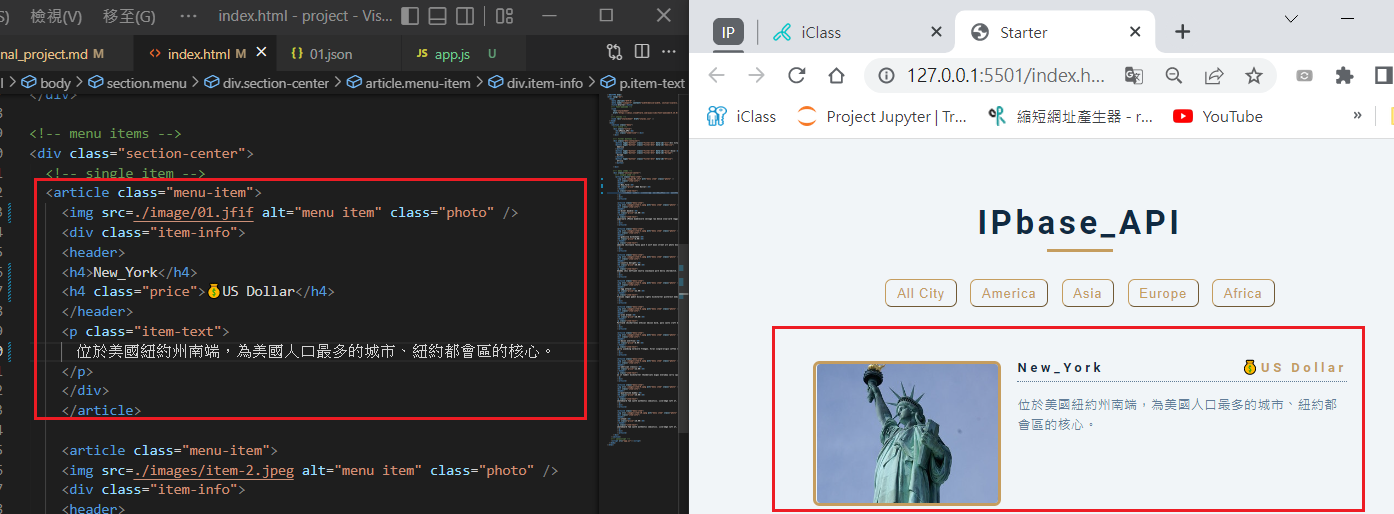
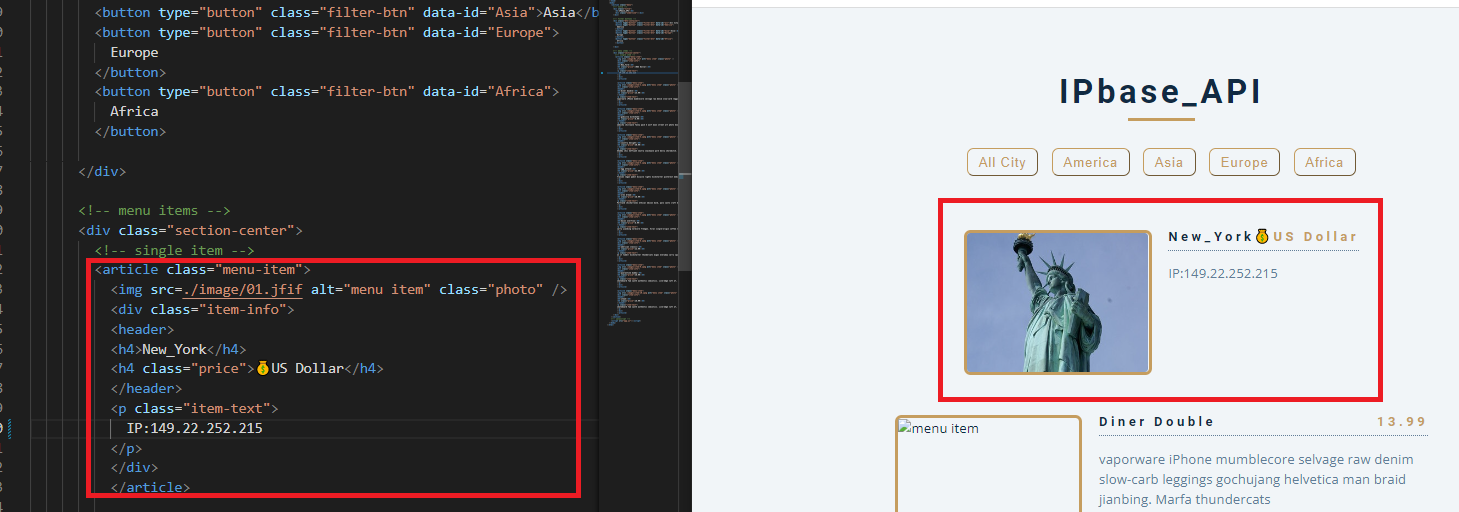
final_project s2-4

diff --git a/project/app.js b/project/app.js
@@ -1,0 +1,210 @@
+  const city=[
+    {
+      "data": {
+          
+          "timezone": {
+              "id": "America\/New_York",
+              "current_time": "2022-06-18T02:26:05-04:00",
+              "code": "EDT",
+              "is_daylight_saving": true,
+              "gmt_offset": -14400
+          },
+          "img": "../image/01.jfif",
+          "ip": "149.22.252.215",
+          "type": "v4",
+          "connection": {
+              "asn": 201838,
+              "organization": "Community Fibre Limited",
+              "isp": "Cogent Communications"
+          },
+          "location": {
+              "geonames_id": 5125771,
+              "latitude": 40.7589111328125,
+              "longitude": -73.97901916503906,
+              "zip": "10020",
+              "continent": {
+                  "code": "NA",
+                  "name": "North America",
+                  "name_translated": "North America"
+              },
+              "country": {
+                  "alpha2": "US",
+                  "alpha3": "USA",
+                  "calling_codes": [
+                      "+1"
+                  ],
+                  "currencies": [
+                      {
+                          "symbol": "$",
+                          "name": "US Dollar",
+                          "symbol_native": "$",
+                          "decimal_digits": 2,
+                          "rounding": 0,
+                          "code": "USD",
+                          "name_plural": "US dollars"
+                      }
+                  ],
+                  "emoji": "🇺🇸",
+                  "ioc": "USA",
+                  "languages": [
+                      {
+                          "name": "English",
+                          "name_native": "English"
+                      }
+                  ],
+                  "name": "United States",
+                  "name_translated": "United States",
+                  "timezones": [
+                      "America\/New_York",
+                      "America\/Detroit",
+                      "America\/Kentucky\/Louisville",
+                      "America\/Kentucky\/Monticello",
+                      "America\/Indiana\/Indianapolis",
+                      "America\/Indiana\/Vincennes",
+                      "America\/Indiana\/Winamac",
+                      "America\/Indiana\/Marengo",
+                      "America\/Indiana\/Petersburg",
+                      "America\/Indiana\/Vevay",
+                      "America\/Chicago",
+                      "America\/Indiana\/Tell_City",
+                      "America\/Indiana\/Knox",
+                      "America\/Menominee",
+                      "America\/North_Dakota\/Center",
+                      "America\/North_Dakota\/New_Salem",
+                      "America\/North_Dakota\/Beulah",
+                      "America\/Denver",
+                      "America\/Boise",
+                      "America\/Phoenix",
+                      "America\/Los_Angeles",
+                      "America\/Anchorage",
+                      "America\/Juneau",
+                      "America\/Sitka",
+                      "America\/Metlakatla",
+                      "America\/Yakutat",
+                      "America\/Nome",
+                      "America\/Adak",
+                      "Pacific\/Honolulu"
+                  ],
+                  "is_in_european_union": false
+              },
+              "city": {
+                  "name": "Manhattan",
+                  "name_translated": "Manhattan"
+              },
+              "region": {
+                  "fips": "",
+                  "alpha2": "",
+                  "name": "New York",
+                  "name_translated": "New York"
+              }
+          }
+      }
+  },
+  {
+    "data": {
+        "timezone": {
+            "id": "Asia\/Shanghai",
+            "current_time": "2022-06-18T14:48:04+08:00",
+            "code": "CST",
+            "is_daylight_saving": false,
+            "gmt_offset": 28800
+        },
+        "ip": "115.45.29.150",
+        "type": "v4",
+        "connection": {
+            "asn": 17962,
+            "organization": "ShenZhen Topway Video Communication Co. Ltd",
+            "isp": "Shenzhen Topway Video Communication Co. Ltd"
+        },
+        "location": {
+            "geonames_id": 1795565,
+            "latitude": 22.547500610351562,
+            "longitude": 114.10166931152344,
+            "zip": "518000",
+            "continent": {
+                "code": "AS",
+                "name": "Asia",
+                "name_translated": "Asia"
+            },
+            "country": {
+                "alpha2": "CN",
+                "alpha3": "CHN",
+                "calling_codes": [
+                    "+86"
+                ],
+                "currencies": [
+                    {
+                        "symbol": "CN¥",
+                        "name": "Chinese Yuan",
+                        "symbol_native": "CN¥",
+                        "decimal_digits": 2,
+                        "rounding": 0,
+                        "code": "CNY",
+                        "name_plural": "Chinese yuan"
+                    }
+                ],
+                "emoji": "🇨🇳",
+                "ioc": "CHN",
+                "languages": [
+                    {
+                        "name": "Chinese",
+                        "name_native": "中文 (Zhōngwén)"
+                    }
+                ],
+                "name": "China",
+                "name_translated": "China",
+                "timezones": [
+                    "Asia\/Shanghai",
+                    "Asia\/Urumqi"
+                ],
+                "is_in_european_union": false
+            },
+            "city": {
+                "name": "Shenzhen",
+                "name_translated": "Shenzhen"
+            },
+            "region": {
+                "fips": "CH-30",
+                "alpha2": "CN-GD",
+                "name": "Guangdong",
+                "name_translated": "Guangdong"
+            }
+        }
+    }
+}
+  ]  
+  
+  const sectionCenter = document.querySelector('.section-center');
+
+  window.addEventListener("DOMContentLoaded", () => {
+    displayCity(city);
+    
+  });
+  
+  const displayCity = (citys) => {
+    let displayCT = citys.map((item) => {
+  
+      return `
+      <article class="menu-item">
+      <img src=${item.data.img} alt="menu item" class="photo"/>
+      <div class="item-info">
+        <header>
+          <h4>${item.data.location.region.name}</h4>
+          <h4 class="price">💰${item.data.location.country.currencies[0].name}</h4>
+        </header>
+        <p class="item item-text">
+          IP:${item.data.ip}
+        </p>
+      </div>
+    </article>
+      
+      `
+  
+    })
+    displayCT = displayCT.join("");
+  
+    console.log('displayCT', displayCT);
+  
+    sectionCenter.innerHTML = displayCT;
+  }
+  

diff --git a/project/index.html b/project/index.html
@@ -39,7 +39,7 @@
       <!-- menu items -->
       <div class="section-center">
         <!-- single item -->
-        <article class="menu-item">
+        <!-- <article class="menu-item">
           <img src=./image/01.jfif alt="menu item" class="photo" />
           <div class="item-info">
           <header>
@@ -47,127 +47,12 @@
           <h4 class="price">💰US Dollar</h4>
           </header>
           <p class="item-text">
-            位於美國紐約州南端，為美國人口最多的城市、紐約都會區的核心。
+            IP:149.22.252.215
           </p>
           </div>
-          </article>
+          </article> -->
           
-          <article class="menu-item">
-          <img src=./images/item-2.jpeg alt="menu item" class="photo" />
-          <div class="item-info">
-          <header>
-          <h4>diner double</h4>
-          <h4 class="price">13.99</h4>
-          </header>
-          <p class="item-text">
-          vaporware iPhone mumblecore selvage raw denim slow-carb leggings gochujang helvetica man braid jianbing. Marfa thundercats
-          </p>
-          </div>
-          </article>
-          
-          <article class="menu-item">
-          <img src=./images/item-3.jpeg alt="menu item" class="photo" />
-          <div class="item-info">
-          <header>
-          <h4>godzilla milkshake</h4>
-          <h4 class="price">6.99</h4>
-          </header>
-          <p class="item-text">
-          ombucha chillwave fanny pack 3 wolf moon street art photo booth before they sold out organic viral.
-          </p>
-          </div>
-          </article>
-          
-          <article class="menu-item">
-          <img src=./images/item-4.jpeg alt="menu item" class="photo" />
-          <div class="item-info">
-          <header>
-          <h4>country delight</h4>
-          <h4 class="price">20.99</h4>
-          </header>
-          <p class="item-text">
-          Shabby chic keffiyeh neutra snackwave pork belly shoreditch. Prism austin mlkshk truffaut,
-          </p>
-          </div>
-          </article>
-          
-          <article class="menu-item">
-          <img src=./images/item-5.jpeg alt="menu item" class="photo" />
-          <div class="item-info">
-          <header>
-          <h4>egg attack</h4>
-          <h4 class="price">22.99</h4>
-          </header>
-          <p class="item-text">
-          franzen vegan pabst bicycle rights kickstarter pinterest meditation farm-to-table 90's pop-up
-          </p>
-          </div>
-          </article>
-          
-          <article class="menu-item">
-          <img src=./images/item-6.jpeg alt="menu item" class="photo" />
-          <div class="item-info">
-          <header>
-          <h4>oreo dream</h4>
-          <h4 class="price">18.99</h4>
-          </header>
-          <p class="item-text">
-          Portland chicharrones ethical edison bulb, palo santo craft beer chia heirloom iPhone everyday
-          </p>
-          </div>
-          </article>
-          
-          <article class="menu-item">
-          <img src=./images/item-7.jpeg alt="menu item" class="photo" />
-          <div class="item-info">
-          <header>
-          <h4>bacon overflow</h4>
-          <h4 class="price">8.99</h4>
-          </header>
-          <p class="item-text">
-          carry jianbing normcore freegan. Viral single-origin coffee live-edge, pork belly cloud bread iceland put a bird
-          </p>
-          </div>
-          </article>
-          
-          <article class="menu-item">
-          <img src=./images/item-8.jpeg alt="menu item" class="photo" />
-          <div class="item-info">
-          <header>
-          <h4>american classic</h4>
-          <h4 class="price">12.99</h4>
-          </header>
-          <p class="item-text">
-          on it tumblr kickstarter thundercats migas everyday carry squid palo santo leggings. Food truck truffaut
-          </p>
-          </div>
-          </article>
-          
-          <article class="menu-item">
-          <img src=./images/item-9.jpeg alt="menu item" class="photo" />
-          <div class="item-info">
-          <header>
-          <h4>quarantine buddy</h4>
-          <h4 class="price">16.99</h4>
-          </header>
-          <p class="item-text">
-          skateboard fam synth authentic semiotics. Live-edge lyft af, edison bulb yuccie crucifix microdosing.
-          </p>
-          </div>
-          </article>
-          
-          <article class="menu-item">
-          <img src=./images/item-10.jpeg alt="menu item" class="photo" />
-          <div class="item-info">
-          <header>
-          <h4>steak</h4>
-          <h4 class="price">16.99</h4>
-          </header>
-          <p class="item-text">
-          skateboard fam synth authentic semiotics. Live-edge lyft af, edison bulb yuccie crucifix microdosing.
-          </p>
-          </div>
-          </article>
+         
       </div>
     </section>
     <!-- javascript -->

diff --git a/project/md/final_project.md b/project/md/final_project.md
@@ -14,7 +14,7 @@
 ### s1-4因為做的是介紹國家城市的網頁所以拿第四周menu_starter的來改
 ![](s1-4.png)
 
-### s1-5預計效果 棕色(標題) 紫色(分類) 紅色(該城市的圖片) 橘色(城市) 綠色(使用的錢幣)藍色(城市簡述)
+### s1-5預計效果 棕色(標題) 紫色(分類) 紅色(該城市的圖片) 橘色(城市) 綠色(使用的錢幣)藍色(使用的IP為何)
 
 ![](s1-5.png)
 
@@ -27,3 +27,8 @@
 
 ### s2-3預期所呈現之效果
 ![](s2-3.png)
+
+### s2-4參考W04檔案做出來的結果
+![](s2-4.png)
+
+
